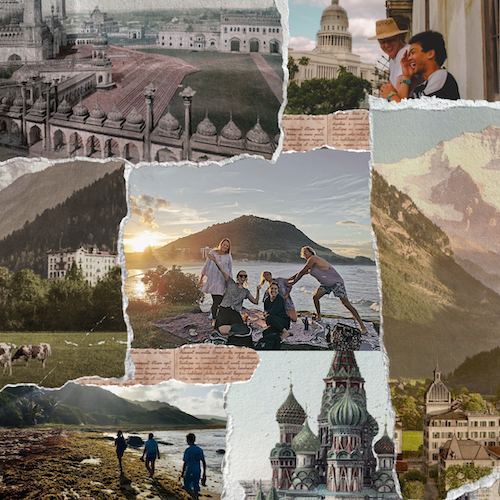
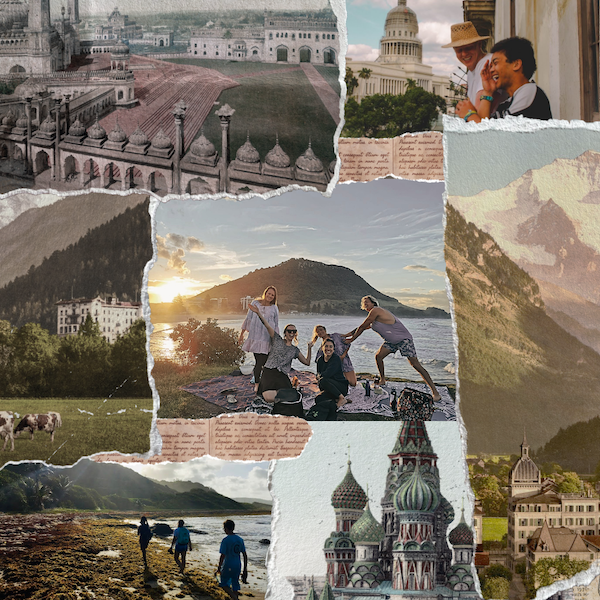
Adjust image and style

diff --git a/app/web/features/landing/HistoryTimeline.tsx b/app/web/features/landing/HistoryTimeline.tsx
@@ -84,13 +84,13 @@ const TimelineTab = memo(function TimelineTab({
       <Typography
         variant="h3"
         sx={{
-          mt: 1,
+          mt: active ? 1 : 1.375,
           fontSize: { xs: "1rem", md: "1.1rem" },
           fontWeight: active ? 700 : 500,
           color: active
             ? theme.palette.secondary.main
             : theme.palette.text.primary,
-          transition: "color .25s",
+          transition: "color .25s, margin-top .25s",
         }}
       >
         {year}
@@ -178,6 +178,7 @@ export default function HistoryTimeline() {
         marginLeft: "-50vw",
         marginRight: "-50vw",
         width: "100vw",
+        minHeight: 450,
       }}
     >
       <Container maxWidth="lg">
@@ -291,7 +292,6 @@ export default function HistoryTimeline() {
           aria-labelledby={`timeline-tab-${activeIndex}`}
           aria-label={items[activeIndex].year}
           sx={{
-            mt: 3,
             mx: "auto",
             p: { xs: 2, md: 3 },
             border: `1px solid ${theme.palette.grey[200]}`,

diff --git a/app/web/features/landing/WhatIsCouchSurfingPage.tsx b/app/web/features/landing/WhatIsCouchSurfingPage.tsx
@@ -378,11 +378,12 @@ export default function WhatIsCouchSurfingPage() {
                     component="img"
                     src="/what-is-cs-scrapbook.png"
                     alt="Why people love couch surfing"
+                    decoding="async"
+                    loading="lazy"
                     sx={{
                       display: "block",
                       width: "100%",
-                      aspectRatio: "1 / 1",
-                      objectFit: "cover",
+                      height: "auto",
                     }}
                   />
                 </Box>
